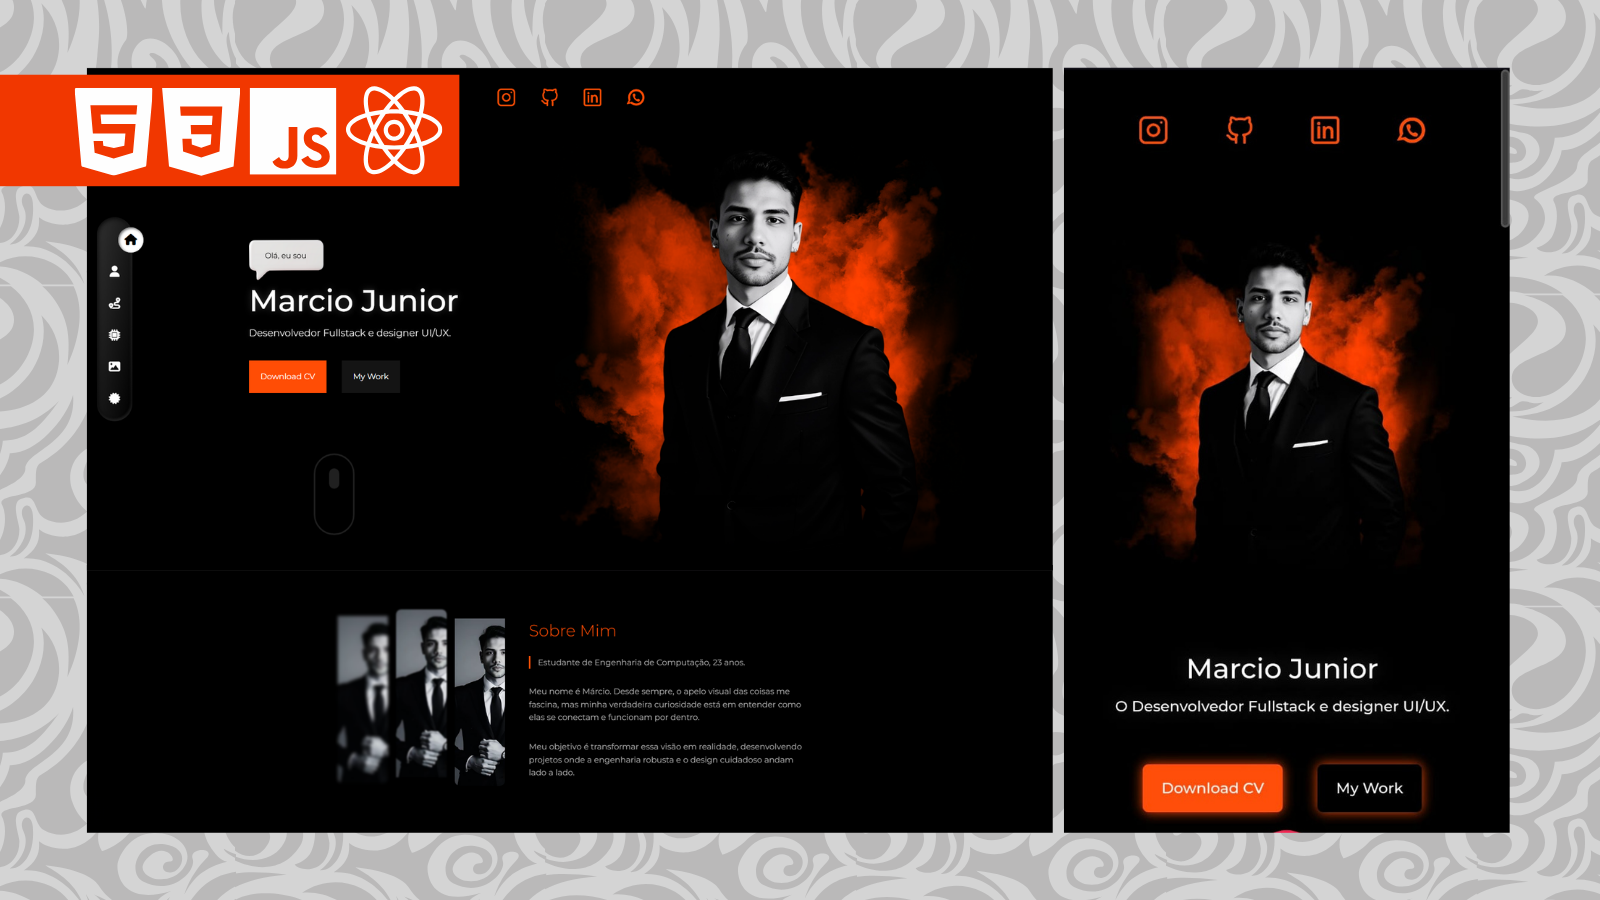
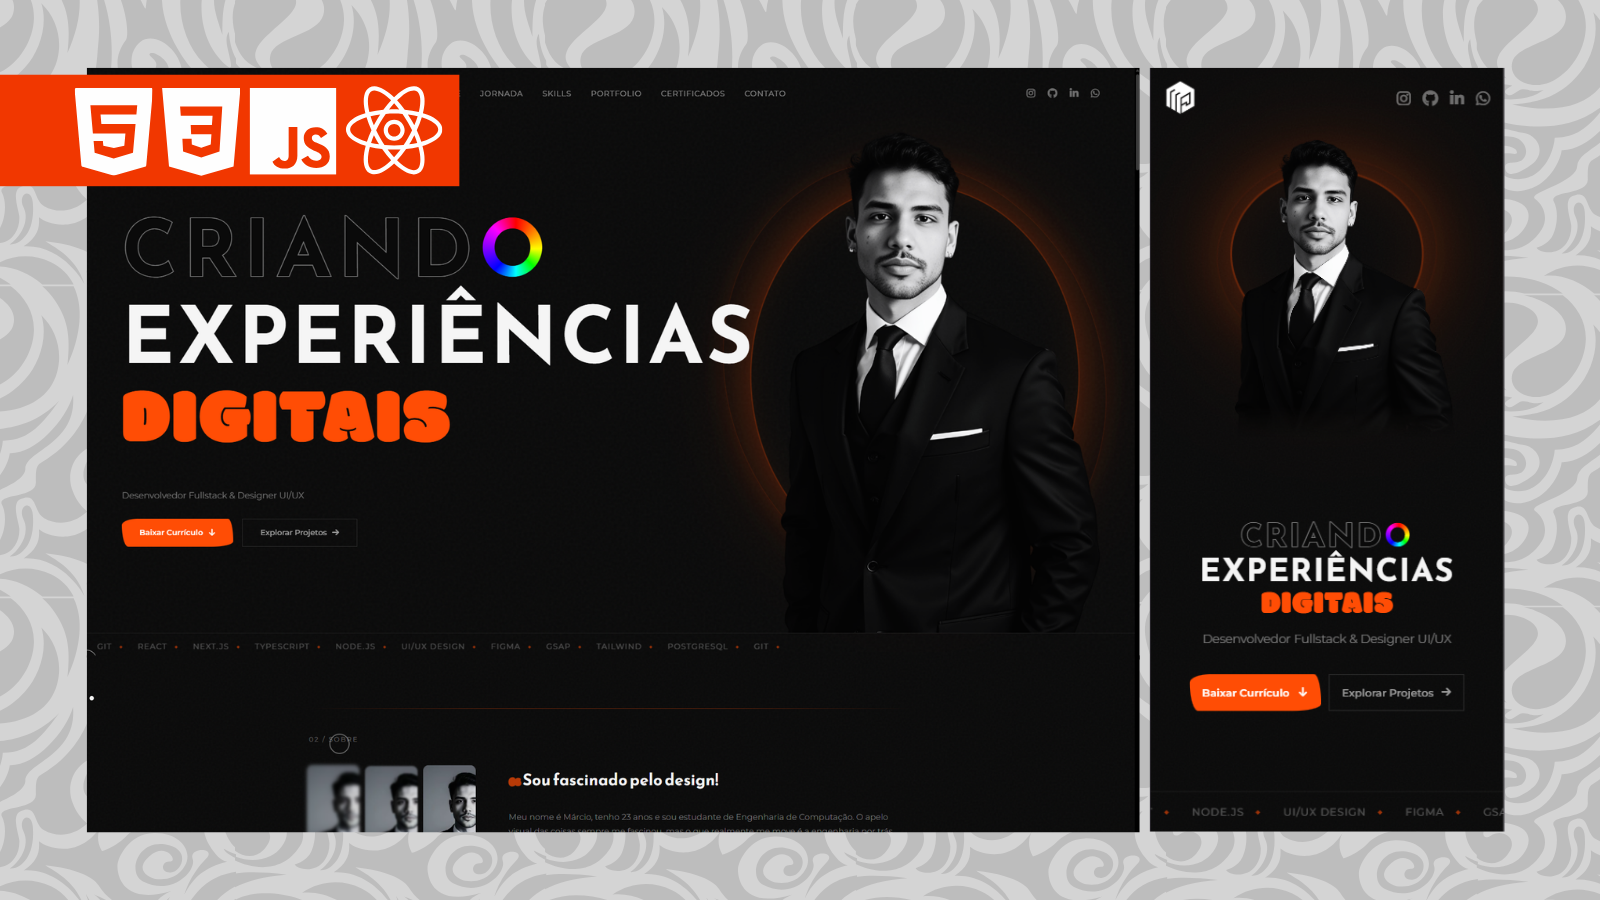
Ultimos ajustes

diff --git a/src/components/Header/Header.css b/src/components/Header/Header.css
@@ -160,6 +160,24 @@ header#inicio::before {
   letter-spacing: 0.08em;
 }
 
+/* EXPERIÊN / CIAS — preenchido */
+.hero-filled-text {
+  font-family: "Reem Kufi", sans-serif;
+  font-weight: 700;
+  font-size: clamp(3.5rem, 9vw, 9rem);
+  color: #f5f5f5;
+  letter-spacing: 0.04em;
+}
+
+/* DIGITAIS — accent */
+.hero-accent-text {
+  font-family: "Modak", cursive;
+  font-weight: 400;
+  font-size: clamp(3.5rem, 9vw, 9rem);
+  color: var(--cor1);
+  letter-spacing: 0.02em;
+}
+
 /* "O" color wheel */
 .hero-color-wheel {
   display: inline-flex;
@@ -428,24 +446,6 @@ header#inicio::before {
   transform: scale(1.1);
 }
 
-/* EXPERIÊN / CIAS — preenchido */
-.hero-filled-text {
-  font-family: "Reem Kufi", sans-serif;
-  font-weight: 700;
-  font-size: clamp(3.5rem, 9vw, 9rem);
-  color: #f5f5f5;
-  letter-spacing: 0.04em;
-}
-
-/* DIGITAIS — accent */
-.hero-accent-text {
-  font-family: "Modak", cursive;
-  font-weight: 400;
-  font-size: clamp(3rem, 8vw, 8.5rem);
-  color: var(--cor1);
-  letter-spacing: 0.02em;
-}
-
 /* ── Retrato full-height lado direito ── */
 .hero-portrait-wrapper {
   position: relative;
@@ -554,7 +554,7 @@ header#inicio::before {
   align-items: center;
   gap: 0.6rem;
   padding: 0.95rem 2rem;
-  border-radius: 50px;
+  border-radius: 30px 10px 40px 12px / 12px 40px 10px 40px;
   background: var(--cor1);
   color: #fff;
   font-family: "Montserrat", sans-serif;
@@ -627,7 +627,6 @@ header#inicio::before {
   align-items: center;
   gap: 0.6rem;
   padding: 0.95rem 2rem;
-  border-radius: 50px;
   background: transparent;
   color: rgba(255, 255, 255, 0.6);
   border: 1px solid rgba(255, 255, 255, 0.12);
@@ -764,6 +763,14 @@ header#inicio::before {
   .hero-portrait-wrapper::before,
   .hero-portrait-wrapper::after {
     opacity: 0.6;
+    top: 45%;
+    width: 55%;
+    height: 55%;
+  }
+
+  .hero-portrait-wrapper::after {
+    width: 68%;
+    height: 68%;
   }
 
   .hero-available {
@@ -782,6 +789,36 @@ header#inicio::before {
 }
 
 @media (max-width: 600px) {
+  .hero-color-wheel {
+    display: inline-flex;
+    align-items: center;
+    justify-content: center;
+    position: relative;
+    font-family: "Reem Kufi", sans-serif;
+    font-weight: 700;
+    font-size: clamp(2.2rem, 9vw, 9rem);
+    letter-spacing: 0.08em;
+    color: transparent;
+    background: conic-gradient(
+      #ff0000,
+      #ff8000,
+      #ffff00,
+      #00ff00,
+      #00ffff,
+      #0000ff,
+      #8000ff,
+      #ff00ff,
+      #ff0000
+    );
+    -webkit-background-clip: text;
+    background-clip: text;
+    cursor: pointer;
+    transition:
+      transform 0.3s,
+      filter 0.3s;
+    user-select: none;
+    -webkit-text-stroke: 0;
+  }
   .navbar {
     padding: 1rem 1rem;
   }
@@ -795,7 +832,8 @@ header#inicio::before {
   }
 
   .hero-content {
-    padding: 1.5rem 1rem;
+    padding: 1.5rem 2rem;
+    gap: 0.5rem;
   }
 
   .hero-portrait-wrapper {
@@ -805,21 +843,26 @@ header#inicio::before {
 
   .hero-portrait-img {
     -webkit-mask-image: linear-gradient(to bottom, #000 50%, transparent 100%);
-    mask-image: linear-gradient(to bottom, #000 50%, transparent 100%);
+    mask-image: linear-gradient(to bottom, #000 90%, transparent 100%);
   }
 
   .hero-portrait-wrapper::before,
   .hero-portrait-wrapper::after {
     opacity: 0.5;
+    top: 40%;
+    width: 50%;
+    height: 50%;
+  }
+
+  .hero-portrait-wrapper::after {
+    width: 62%;
+    height: 62%;
   }
 
   .hero-outline-text,
-  .hero-filled-text {
-    font-size: clamp(1.8rem, 9vw, 3.5rem);
-  }
-
+  .hero-filled-text,
   .hero-accent-text {
-    font-size: clamp(1.6rem, 8vw, 3rem);
+    font-size: clamp(1.8rem, 9vw, 3.5rem);
   }
 
   .hero-outline-text {
@@ -838,15 +881,19 @@ header#inicio::before {
   }
 
   .hero-actions {
-    flex-direction: column;
+    flex-direction: row;
     width: 100%;
+    gap: 0.6rem;
   }
 
   .btn-hero-primary,
   .btn-hero-ghost {
-    width: 100%;
+    width: auto;
+    flex: 1;
     justify-content: center;
-    padding: 0.85rem 1.5rem;
+    padding: 0.8rem 0.9rem;
+    font-size: 0.78rem;
+    white-space: nowrap;
   }
 
   .hero-marquee-item {

diff --git a/src/components/AboutMe/index.jsx b/src/components/AboutMe/index.jsx
@@ -147,8 +147,7 @@ export default function AboutMe({ sectionRef }) {
           {/* Quote destaque */}
           <blockquote className="about-quote">
             <span className="about-quote-mark">&ldquo;</span>
-            Minha curiosidade está em entender como as coisas se conectam e
-            funcionam por dentro.
+            Sou fascinado pelo design!
           </blockquote>
 
           <p className="about-paragraph">
@@ -157,7 +156,7 @@ export default function AboutMe({ sectionRef }) {
             realmente me move é a engenharia por trás delas.
           </p>
           <p className="about-paragraph">
-            Meu objetivo é transformar essa visão em realidade — criando
+            Meu objetivo é transformar essa visão em realidade, criando
             projetos onde código robusto e design cuidadoso caminham lado a
             lado.
           </p>

diff --git a/src/components/Header/index.jsx b/src/components/Header/index.jsx
@@ -537,11 +537,11 @@ export default function Header({ sectionRef, onNavigate }) {
                   </span>
                 </a>
                 <a
-                  href="#jornada"
+                  href="#portfolio"
                   className="btn-hero-ghost"
                   onClick={(e) => {
                     e.preventDefault();
-                    onNavigate("jornada");
+                    onNavigate("portfolio");
                   }}
                 >
                   Explorar Projetos

diff --git a/src/components/AboutMe/AboutMe.css b/src/components/AboutMe/AboutMe.css
@@ -258,8 +258,13 @@ section#sobre::before {
   }
 
   .about-photo {
-    width: 3.2rem;
-    height: 5.5rem;
+    width: 100%;
+    height: 24rem;
+  }
+
+  .about-photo-1,
+  .about-photo-2 {
+    display: none;
   }
 
   .about-text-col {
@@ -270,10 +275,11 @@ section#sobre::before {
 
   .about-quote {
     text-align: left;
+    font-size: clamp(1rem, 5.2vw, 1.15rem);
   }
 
   .about-paragraph {
-    font-size: 0.88rem;
+    font-size: 0.84rem;
   }
 
   .about-bento {
